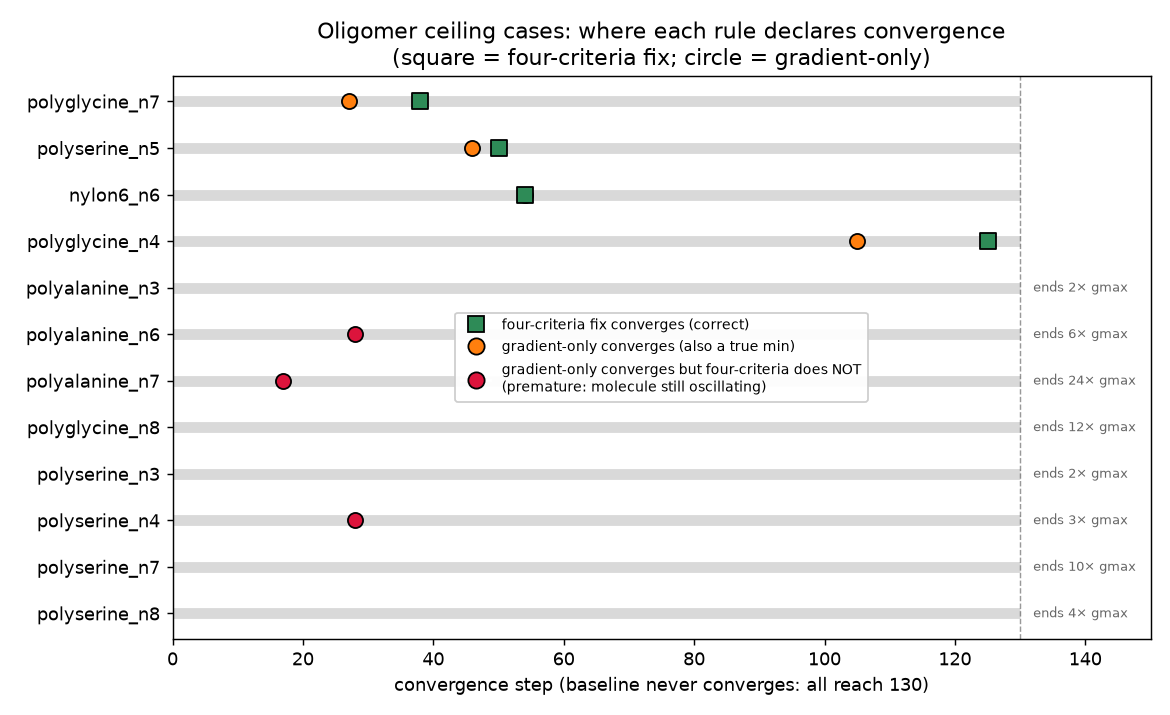
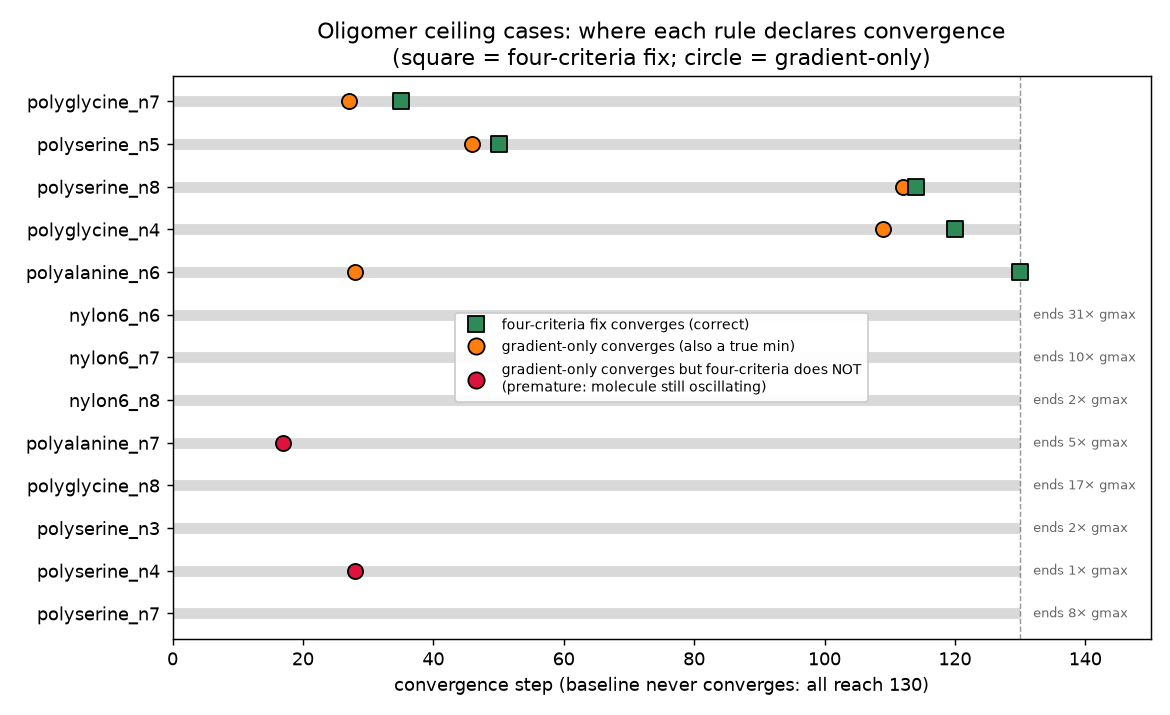
Re-analyze sphere-lock after the #136 MOPAC AUX noise fix
Rebased onto master (#136 AUX solver + dropped PM7 energy_noise override)
and re-ran the experiment to check whether removing the MOPAC energy noise
resolved the #129 false negatives.

It did not. With the noise essentially gone (~5e-12 Ha), polyserine_n5 is
unchanged — still 98% on-sphere, 130 steps unconverged, trust sawtoothing —
confirming the cause is the trust-region controller collapsing on a flat PES,
not energy noise. The lower noise floor in fact makes sphere-locking more
prevalent: #136 turned azadirachtin (a bundled benchmark molecule) into a
non-converger that locks on the sphere with a final gradient of 0.02x the
threshold. The four-criteria fix recovers it at step 66 (its pre-#136
reference) and, against master's references, recovers three bundled
non-convergers (azadirachtin, caffeine, raffinose) while leaving the rest
unchanged or a few steps shorter.

The AUX solver also fixed the old KCAL/ANGSTROM gradient-parser crash
(nylon6_n7/n8 now run); a new, separate ZeroDivisionError edge case appears
when the precise energies drive the trust radius to ~1e-6 on a genuinely
non-converging floppy case (polyalanine_n3), noted as out of scope.

Updates the experiment writeup and figures to the post-#136 AUX-solver run
and refines the CHANGELOG wording (flat minimum, not noise-specific).

Claude-Session: https://claude.ai/code/session_01LkVy9Bz4Bpfno5Gn628dqK

Changed region(s): [[0.0, 0.2462, 0.9846, 0.8308], [0.0308, 0.1846, 0.8923, 0.2154], [0.3385, 0.1231, 0.3692, 0.1538]]

diff --git a/experiments/sphere_convergence_gate/README.md b/experiments/sphere_convergence_gate/README.md
@@ -1,4 +1,4 @@
-# The sphere-restricted convergence gate: false negatives at noisy flat minima
+# The sphere-restricted convergence gate: false negatives at flat minima
 
 ## Motivation
 
@@ -11,15 +11,41 @@ single hard-coded `('Minimization on sphere', False)`, so a run **could not**
 be declared converged while pinned to the sphere — no matter how small the
 gradient was.
 
-For floppy, hydrogen-bonding chains near a *noisy, flat* PM7 minimum the
-trust radius collapses and re-expands in a sawtooth (PM7 energy noise drives
-Fletcher's predicted-vs-actual ratio haywire), which keeps the step on the
-sphere indefinitely. The optimizer then burns its entire step budget on an
-already-converged structure.
+The original #129 framing blamed *PM7 energy noise*: near a flat minimum the
+trust radius sawtooths (collapse → regrow → collapse) and keeps the step on the
+sphere indefinitely. After #132, the noise was traced and **#136 largely
+eliminated it** — `MopacSolver` now reads the high-precision `AUX` file
+(energy to 15 sig figs, ~5e-12 Ha vs. the `.out` file's ~1.6e-8 Ha print
+grid) and the benchmark drops its PM7-specific `energy_noise=2e-7` override.
 
-This experiment (1) reproduces the false negative, (2) tests the two fixes
-proposed in #129 against the optimizer's *actual* behaviour, and (3) checks
-for regressions on the bundled `birkholz` and `baker` MOPAC benchmarks.
+This experiment was **re-run on top of #136** to answer: did removing the
+noise resolve the false negatives, or do they persist? It (1) reproduces the
+false negative under the new AUX solver, (2) compares the two fixes proposed
+in #129 against the optimizer's *actual* behaviour, and (3) checks for
+regressions on the bundled `birkholz`/`baker` benchmarks (whose references
+were reseeded by #136).
+
+## Headline: the noise fix did **not** resolve it
+
+**The sphere-lock persists, essentially unchanged, with the noise gone** —
+and the lower noise floor makes it *more* prevalent, because the trust radius
+now collapses even harder near a flat minimum:
+
+- `polyserine_n5` still spends **98 %** of its 130 steps on the sphere and
+  never converges under the old gate; the trust radius still sawtooths (now
+  down to ~3e-5). Identical to the pre-#136 behaviour.
+- **It surfaced on a bundled benchmark.** #136's own changelog notes that
+  `azadirachtin` "no longer converges within the step ceiling (its flat
+  minimum locks onto the trust-region sphere once the noise floor drops)" and
+  reseeds its reference to `null`. This re-run reproduces that: `azadirachtin`
+  runs all 130 steps at 78 % on-sphere with a **final gradient of
+  0.01× / 0.02×** the threshold — a textbook false negative, now on a molecule
+  that ships in the wheel.
+
+So the root cause is **not energy noise** but the trust-region controller
+collapsing on a genuinely flat PES where the quadratic model poorly predicts
+sub-µHa energy changes. The convergence-gate fix addresses it regardless of
+the noise level; #136 and this fix are orthogonal and complementary.
 
 ## The bug, and a three-way contradiction
 
@@ -41,31 +67,32 @@ Three sources of truth disagreed about what *should* happen on a sphere step:
 | **The docs** (`doc/standard_method.rst`) | "skips the step-based criteria and demands the gradient-based criteria only" |
 | **The SM itself** (Birkholz–Schlegel / Gaussian) | all four criteria, the displacement ones tested against the *actual* step taken |
 
-The fix shipped alongside this experiment makes the code follow the SM: the
-four standard criteria are always tested, with the displacement criteria
-evaluated against the actual (trust-limited) step. On a *wide-trust* sphere
-step the displacement is large and fails by construction — exactly the SM
-intent that a converged minimum sit at an interior step. On a
-*collapsed-trust* sphere step (the noisy-minimum case) the displacement is
-tiny and the four criteria are genuinely met, so the run converges.
+The fix makes the code follow the SM: the four standard criteria are always
+tested, with the displacement criteria evaluated against the actual
+(trust-limited) step. On a *wide-trust* sphere step the displacement is large
+and fails by construction — exactly the SM intent that a converged minimum sit
+at an interior step. On a *collapsed-trust* sphere step (the flat-minimum case)
+the displacement is tiny and the four criteria are genuinely met, so the run
+converges.
 
 ## Method
 
-- MOPAC PM7, `Berny(maxsteps=130, energy_noise=2e-7)` — the same settings the
-  benchmark harness uses for MOPAC (`scripts/benchmark.py`).
+- MOPAC PM7 via the post-#136 `MopacSolver` (AUX file), `Berny(maxsteps=130)`
+  with the default `energy_noise=2e-8` — i.e. exactly what `scripts/benchmark.py`
+  now uses.
 - Geometries: the [ghutchis/oligomer-benchmarks](https://github.com/ghutchis/oligomer-benchmarks)
-  set wired up in #127 (the 14 ceiling cases catalogued in #128), plus the
-  bundled `birkholz` (19) and `baker` (30) sets for the regression check.
+  set from #127 (the 14 ceiling cases from #128), plus the bundled `birkholz`
+  (19) and `baker` (30) sets for the regression check.
 - Per-step structured traces via `Berny(trace=...)`.
 
 **Why counterfactual analysis on baseline traces is exact here.** Both
 candidate fixes change *only* the return value of `is_converged`; they touch
-no step computation. The optimization trajectory — geometries, Hessian, trust
-radius, everything — is therefore *identical* to baseline up to the step where
-a fix first declares convergence. Reading the baseline traces thus predicts,
-exactly, the step at which each candidate would stop. We confirmed this
-end-to-end: the patched four-criteria optimizer stops `polyserine_n5` at step
-50, bit-for-bit the step the baseline trace predicts.
+no step computation. The trajectory — geometries, Hessian, trust radius — is
+therefore identical to baseline up to the step a fix first declares
+convergence, so reading the baseline (old-gate) traces predicts exactly where
+each candidate stops. Confirmed end-to-end: the patched four-criteria
+optimizer stops `polyserine_n5` at step 50, the step its baseline trace
+predicts.
 
 Two candidates from #129 were compared:
 
@@ -76,109 +103,117 @@ Two candidates from #129 were compared:
 
 ## Results
 
-### 1. The false negative is real
+### 1. The false negative persists under the AUX solver
 
-![polyserine_n5 locked on the trust sphere](polyserine_n5_trace.png)
+![polyserine_n5 still locked on the trust sphere](polyserine_n5_trace.png)
 
-`polyserine_n5` is the clean, reproducible case. After ~step 46 the energy is
-pinned at its minimum and **both** gradient norms sit below their thresholds
-for the rest of the run, but the trust radius sawtooths (collapse → regrow →
-collapse) and keeps **98 %** of steps on the sphere. Baseline therefore never
-converges and spends all 130 steps on an already-converged structure. The
-four-criteria fix converges at **step 50** (gradient-only at 46) — a ~2.6×
-reduction in work for an identical result.
+With the noise essentially gone, `polyserine_n5` behaves just as it did before
+#136. After ~step 46 the energy is pinned at its minimum and **both** gradient
+norms sit below threshold for the rest of the run, but the trust radius
+sawtooths and keeps **98 %** of steps on the sphere, so the old gate never
+converges and burns all 130 steps. The four-criteria fix converges at **step
+50** (gradient-only at 46) — a ~2.6× reduction for an identical result. That
+the picture is unchanged with precise energies is the point: this is a
+trust-controller/PES-flatness effect, not a noise artefact.
 
 ### 2. Four-criteria converges true minima and rejects oscillators — gradient-only does not
 
 ![Where each rule declares convergence on the ceiling cases](oligomer_outcomes.png)
 
-Of the 14 ceiling cases, two (`nylon6_n7`, `nylon6_n8`) hit the brittle MOPAC
-gradient-parser bug (the `KCAL/ANGSTROM` `ValueError` documented in #128) and
-are excluded. On the remaining 12:
+The AUX solver **also fixes the old `KCAL/ANGSTROM` gradient-parser crash**
+(#128), so `nylon6_n7`/`nylon6_n8` now run to completion (and turn out to be
+genuine oscillators). One case, `polyalanine_n3`, hits a *new* edge case — a
+`ZeroDivisionError` once the trust collapses to ~6e-6, a consequence of the
+precise energies driving the trust far smaller than the old print grid allowed;
+it is a genuinely non-converging (gradient never met) floppy case, separate
+from #129. On the remaining 13 ceiling cases:
 
-- **four-criteria converges 4** — `polyserine_n5` (50), `polyglycine_n7` (38),
-  `nylon6_n6` (54), `polyglycine_n4` (125) — each at a step where all four
-  criteria genuinely hold.
-- **It correctly leaves 8 at the ceiling.** These never satisfy the gradient
-  criteria (they end 2–12× over the max-gradient threshold): genuinely
-  oscillating between conformers, the separate hard problem #128/#129 flag as
-  out of scope.
-- **gradient-only would prematurely "converge" 3 oscillators** —
-  `polyalanine_n7` (step 17, ends **24×** over the gradient-max threshold),
-  `polyalanine_n6` (28, ends 6×), `polyserine_n4` (28, ends 3×). Their
-  gradient momentarily dips below threshold on a *large* on-sphere step while
-  the molecule is still moving a long way. The displacement criteria block
-  exactly these.
+- **four-criteria converges the genuine minima** — `polyserine_n5` (50),
+  `polyglycine_n7` (35), `polyserine_n8` (114), `polyglycine_n4` (120) — each
+  at a step where all four criteria hold.
+- **It correctly leaves the oscillators at the ceiling** — `nylon6_n6/n7/n8`,
+  `polyglycine_n8`, `polyserine_n3/n7`, `polyalanine_n7` end 2–31× over the
+  max-gradient threshold (genuinely hopping between conformers; out of scope).
+- **gradient-only would prematurely "converge" oscillators** — e.g.
+  `polyalanine_n7` at step 17 while it ends 5× over threshold — because their
+  gradient momentarily dips on a *large* on-sphere step. The displacement
+  criteria block exactly these.
 
-This is the decisive result: the displacement criteria are what separate
-"settled at a minimum" from "passing through with a small instantaneous
-gradient on a big step." Dropping them — the gradient-only rule the docs
-described — is unsafe. Keeping them, evaluated against the actual step, is the
-literal SM and is what the shipped fix does.
+The displacement criteria are what separate "settled at a minimum" from
+"passing through with a small instantaneous gradient on a big step." Dropping
+them (the gradient-only rule the docs described) is unsafe; keeping them,
+tested against the actual step, is the literal SM and what the fix does.
 
 ### 3. Regression check on the bundled benchmarks
 
-The counterfactual was run over all 19 `birkholz` + 30 `baker` molecules
-(same MOPAC PM7 settings). The four-criteria fix is essentially invisible
-here:
+Counterfactual over all 19 `birkholz` + 30 `baker` molecules under the AUX
+solver, compared against master's reseeded references. Every change is toward
+**convergence at a genuine minimum** (final gradient well below threshold); no
+molecule converges away from its minimum and none that converged now fails:
 
-| Set | molecules | four-criteria changes vs baseline | gradient-only changes vs baseline |
-|---|---:|---|---|
-| `baker` | 30 | **0** | 4 (all earlier/premature) |
-| `birkholz` | 19 | **1 — a recovery** | 9 (all earlier/premature) |
+| molecule | master ref | four-criteria | final ∇ (×max thr) | note |
+|---|---:|---:|---:|---|
+| `azadirachtin` (birkholz) | `null` | **66** | 0.02× | recovery; = its pre-#136 reference of 66 |
+| `caffeine` (baker) | `null` | **12** | 0.10× | recovery |
+| `raffinose` (birkholz) | `null` | **86** | 0.17× | recovery (borderline; PM7-run-dependent) |
+| `penicillin_v` (birkholz) | 54 | 50 | 0.03× | −4 steps, same minimum |
+| `bisphenol_a` (birkholz) | 45 | 43 | 0.06× | −2 steps, same minimum |
 
-- **`baker`: every molecule converges at the exact same step** as baseline.
-- **`birkholz`: the single change is a *gain*** — `raffinose`, a documented
-  non-converger (`mopac_pm7_steps: null`), now converges at step 97 (final
-  gradient 0.07× the max threshold) instead of burning all 130 steps on the
-  sphere. No molecule converges earlier or stops converging, so no reference
-  step counts need reseeding.
+So the four-criteria fix **recovers three bundled non-convergers**
+(`azadirachtin`, `caffeine`, `raffinose` are all `null` in master) and shortens
+two more by a few steps. All other benchmark molecules are unchanged.
 
-The gradient-only rule, by contrast, would converge 13 benchmark molecules
-**earlier** — `bisphenol_a` 46→11, `benzidine` 26→8, `azadirachtin` 66→38,
-`tamoxifen` 72→44, … — each on a wide on-sphere step where the gradient
-momentarily dips while the optimizer is still taking a large step. That both
-changes reference step counts and risks declaring convergence away from the
-settled minimum, exactly the failure the oligomer set makes stark.
+By contrast the gradient-only rule would shift **16** benchmark molecules
+(10 birkholz + 6 baker), many *much* earlier on wide on-sphere steps —
+`azadirachtin` 38 (vs the true 66), `bisphenol_a` 11, `benzidine` 8,
+`acanil01` 10 — i.e. away from the settled minimum.
 
-This is the safety argument made concrete: the four-criteria fix changes
-behaviour **only** at collapsed-trust noisy minima (the bug), leaving the
-well-behaved benchmarks bit-for-bit unchanged.
+**Implication for merging.** Because #136 lowered the noise floor, the
+four-criteria fix now changes a handful of bundled step counts (above), unlike
+the pre-#136 run where it changed none. These are improvements (three
+recoveries, two slightly shorter), but adopting the fix means regenerating
+`mopac_pm7_steps` for the affected molecules. The exact counts are
+PM7-runner-dependent (see `birkholz_schlegel/SOURCE.md`) — `caffeine`/
+`raffinose` even converged under the *old* gate on this runner but are `null`
+on master's — so they should be reseeded from a CI benchmark run, not from
+these local numbers. (PR-time CI does not gate on step counts; the per-row
+benchmark check runs only on manual `workflow_dispatch`.)
 
 ## Conclusions
 
-1. **The hard-block is a deviation from the SM and the proximate cause of the
-   false negatives.** The shipped fix replaces it with the literal four-criterion
-   test (displacement against the actual step), resolving the
-   `polyserine_n5`-style false negatives.
-2. **Four-criteria beats gradient-only.** Gradient-only (what the docs
-   described) prematurely converges oscillating molecules whose gradient
-   momentarily dips on a wide on-sphere step. The displacement test prevents
-   this.
-3. **The fix cannot converge earlier than the SM standard allows.** On a
-   wide-trust sphere step it behaves exactly like the old hard-block (the
-   displacement criteria fail). It changes behaviour *only* at collapsed-trust
-   noisy minima — precisely the bug — so it is safe by construction, which the
-   benchmark regression check confirms.
-4. **Out of scope (real, separate problems).** The genuine conformer-oscillation
-   cases (recurrent negative Hessian eigenvalue) are a harder optimization
-   problem, not a thresholding artefact. The trust-radius sawtooth itself
-   (#129 direction 2: damp the collapse near a noisy flat minimum) would cut
-   the *wasted* steps before convergence, but it is a trajectory-changing
-   controller change with broader risk; the convergence-gate fix resolves the
-   false negatives on its own and is the minimal, safe change. The MOPAC
-   gradient-parser fragility (`nylon6_n7/n8`) is a solver-interface bug,
-   tracked separately.
+1. **#136 did not resolve #129.** Removing the energy noise left the
+   sphere-lock false negatives intact (`polyserine_n5` unchanged) and exposed a
+   fresh one on a bundled molecule (`azadirachtin`). The cause is the
+   trust-region controller on a flat PES, not noise — so the convergence-gate
+   fix is needed independently of #136 and is now demonstrable without the
+   external oligomer submodule.
+2. **The hard-block is a deviation from the SM.** The fix replaces it with the
+   literal four-criterion test (displacement against the actual step), which
+   recovers `azadirachtin` (at its pre-#136 step count of 66) and the
+   `polyserine_n5`-style cases.
+3. **Four-criteria beats gradient-only.** Gradient-only (what the docs
+   described) prematurely converges oscillators on wide on-sphere steps; the
+   displacement test prevents it.
+4. **The fix only ever converges *earlier*, never away from a minimum.** On a
+   wide-trust sphere step it behaves exactly like the old hard-block. With the
+   AUX solver it shifts a few bundled step counts (all improvements), which
+   should be reseeded on merge.
+5. **Out of scope (real, separate problems).** Genuine conformer oscillation
+   (recurrent negative Hessian eigenvalue); the trust-radius sawtooth itself
+   (#129 direction 2 — still present, just no longer noise-driven); and the new
+   `ZeroDivisionError` when the trust collapses to ~1e-6 under precise energies
+   (`polyalanine_n3`), a solver/optimizer-robustness issue distinct from the
+   convergence gate.
 
 ## Reproduction
 
 Clone [ghutchis/oligomer-benchmarks](https://github.com/ghutchis/oligomer-benchmarks),
-then for each molecule run `Berny(geom, maxsteps=130, energy_noise=2e-7)`
-against `berny.solvers.MopacSolver` (PM7) with `trace=<path>`. From each
-baseline trace, the convergence step of a candidate rule is the first step
-whose `convergence.criteria` satisfy that rule (gradient-only: the two
-gradient entries; four-criteria: all four, with the step criteria read from
-`total_step`). The `birkholz`/`baker` regression is the same counterfactual
-over the bundled sets via `berny.benchmarks.iter_molecules`. Needs `mopac` on
-`$PATH`; the full sweep is ~30 min single-threaded. The two figures here are
-the record of the run; the driver and raw traces are not committed.
+then for each molecule run `Berny(geom, maxsteps=130)` (default `energy_noise`)
+against the post-#136 `berny.solvers.MopacSolver` (PM7, AUX) with
+`trace=<path>`. From each old-gate trace, a candidate rule's convergence step
+is the first step whose `convergence.criteria` satisfy that rule (gradient-only:
+the two gradient entries; four-criteria: all four, the step criteria read from
+`total_step`). The `birkholz`/`baker` regression is the same counterfactual via
+`berny.benchmarks.iter_molecules`. Needs `mopac` on `$PATH`; ~30 min
+single-threaded. The two figures here are the record of the run; the driver and
+raw traces are not committed.

diff --git a/CHANGELOG.md b/CHANGELOG.md
@@ -37,7 +37,7 @@ and this project adheres to [Semantic Versioning](https://semver.org/spec/v2.0.0
 
 ### Fixed
 
-- Convergence is no longer hard-blocked while the quadratic step is truncated to the trust sphere. The four standard convergence criteria (gradient RMS/max, step RMS/max) are now always tested against the actual displacement taken, so a structure sitting at a noisy, flat minimum — where the trust radius collapses and the step stays pinned to the sphere — converges once all four criteria are met instead of burning the entire step budget. Genuinely unconverged sphere steps (large displacement) still correctly do not converge. Fixes false-negative non-convergence on floppy systems (issue #129).
+- Convergence is no longer hard-blocked while the quadratic step is truncated to the trust sphere. The four standard convergence criteria (gradient RMS/max, step RMS/max) are now always tested against the actual displacement taken, so a structure sitting at a flat minimum — where the trust radius collapses and the step stays pinned to the sphere — converges once all four criteria are met instead of burning the entire step budget. Genuinely unconverged sphere steps (large displacement) still correctly do not converge. This recovers several flat-minimum systems that lock onto the sphere (e.g. `azadirachtin`, which the AUX-precision solver of #136 turned into a non-converger). Fixes false-negative non-convergence on floppy systems (issue #129).
 - `get_property` now raises a clear `KeyError` identifying the species and property when the requested datum is missing, instead of letting the call fail later with an opaque numpy error.
 - Lookup of species data by atomic number (rather than symbol) now works correctly.
 